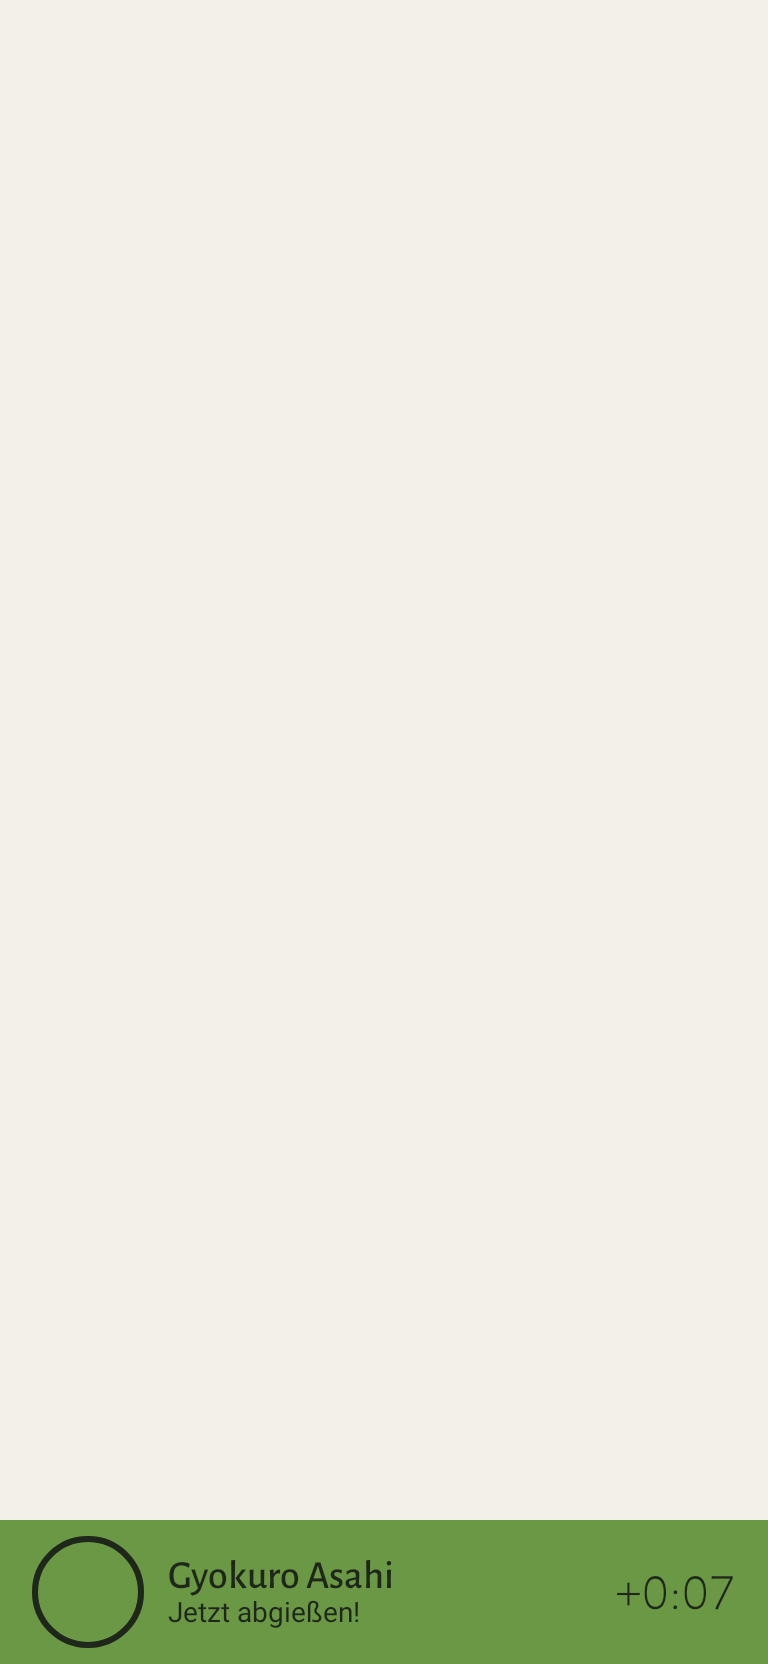
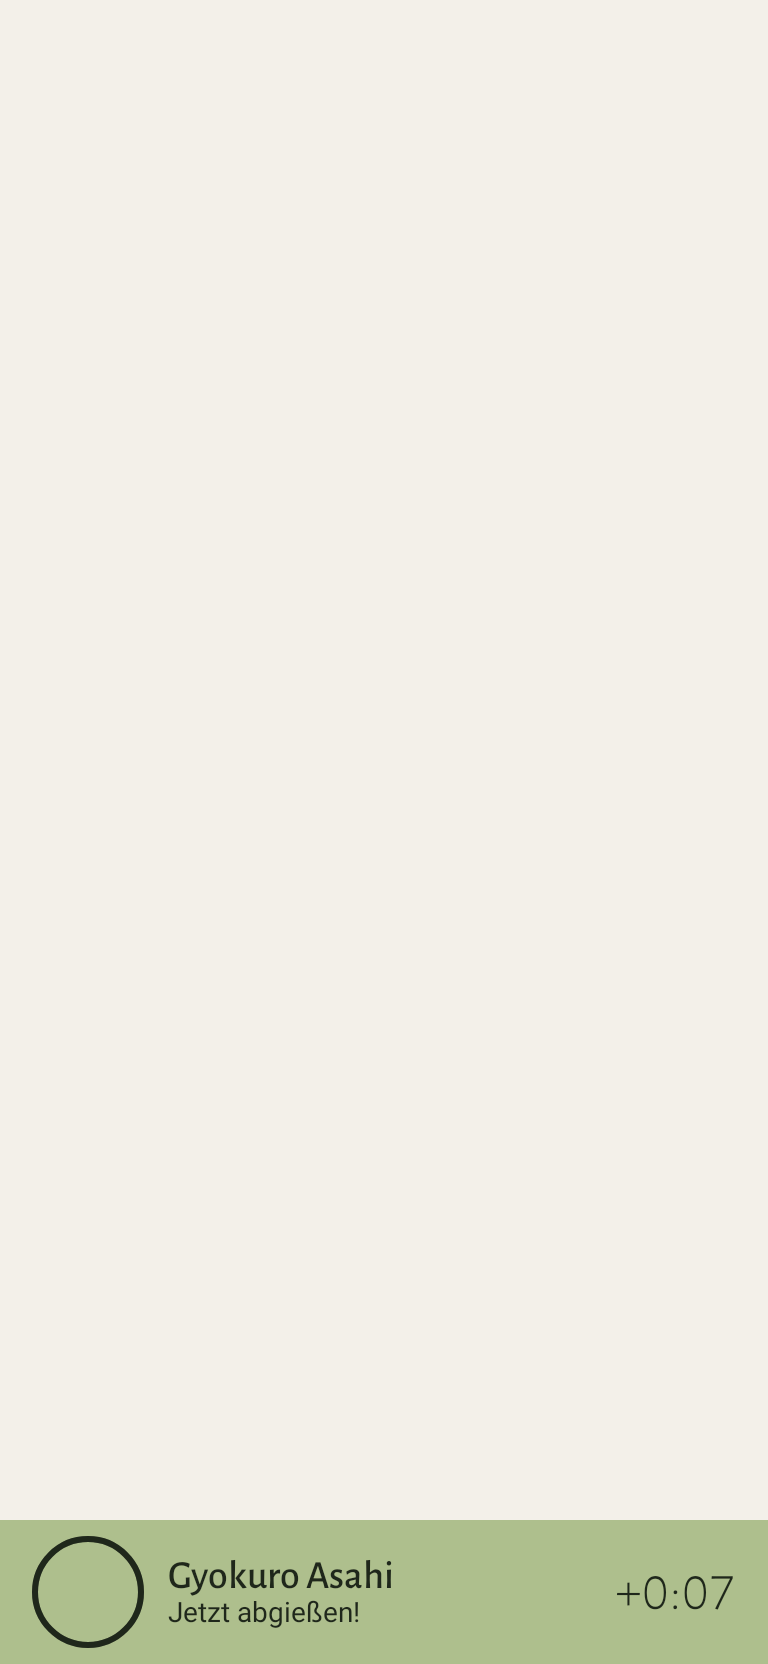
feat(designsystem): the active-brew bar's alert is static sage in the light app (SCR-07, SET-05, #325)
D-128 item 38 (PO): in the light app the bar's ALERTING state, the single bar and an alerting
half, is static sage #AEBF8D with ink content (7.8:1, LightTimerAlertColors); in the dark app
static matcha as before. It still snaps in (alertEnter) and never pulses; keyed on the app's
theme, so a theme change recolours it in one frame. Tests: the contrast of the bar's alert in
both app themes, the alerting bar's colour, no pulse and a theme change. Goldens: six light
ActiveBrewBar goldens in core:designsystem and two light Shell alerting goldens in app; no dark
golden changes. light-app-bar-alert.png re-rendered (now sage).

Claude-Session: https://claude.ai/code/session_01F2Tx8WPJVvUNNPFGBEZtuD

Changed region(s): [[0.0, 0.9062, 1.0, 1.0]]

diff --git a/core/designsystem/src/main/kotlin/com/umamit/core/designsystem/component/ActiveBrewBar.kt b/core/designsystem/src/main/kotlin/com/umamit/core/designsystem/component/ActiveBrewBar.kt
@@ -23,6 +23,7 @@ import androidx.compose.material3.MaterialTheme
 import androidx.compose.material3.Surface
 import androidx.compose.material3.Text
 import androidx.compose.runtime.Composable
+import androidx.compose.runtime.ReadOnlyComposable
 import androidx.compose.runtime.SideEffect
 import androidx.compose.runtime.remember
 import androidx.compose.ui.Alignment
@@ -41,6 +42,8 @@ import androidx.compose.ui.unit.sp
 import com.umamit.core.designsystem.R
 import com.umamit.core.designsystem.text.clockText
 import com.umamit.core.designsystem.text.spokenDuration
+import com.umamit.core.designsystem.theme.AlertColors
+import com.umamit.core.designsystem.theme.LightTimerAlertColors
 import com.umamit.core.designsystem.theme.UmamiSpacing
 import com.umamit.core.designsystem.theme.UmamiTheme
 
@@ -64,8 +67,8 @@ private val RemainingLineHeight = 32.sp
  * it keeps showing the last brew. Under reduce motion it appears at once, and so
  * does a bar that arrives already alerting (rule 8).
  *
- * **ALERTING** ([ActiveBrew.alerting]): the bar turns static matcha on the next
- * frame (`alertEnter`, no transition) with ink content, „Jetzt abgießen!" in
+ * **ALERTING** ([ActiveBrew.alerting]): the bar turns static matcha (in the light app static sage,
+ * [barAlertColors], D-128 item 38) on the next frame (`alertEnter`, no transition) with ink content, „Jetzt abgießen!" in
  * place of the step and the overtime counting up („+0:07"); the mini ring is
  * full, in ink, without liquor. It does not pulse: the full alert is the timer
  * screen, which a tap on the bar opens. Rule 8: nothing in the bar delays or
@@ -143,9 +146,9 @@ private fun ActiveBrewBarContent(
     onClick: () -> Unit,
     windowInsets: WindowInsets,
 ) {
-    val alert = UmamiTheme.extendedColors.alert
-    // Static matcha with ink while alerting (4.55:1); the calm bar otherwise. No colour
-    // animation: entering ALERTING is instant (`alertEnter`).
+    val alert = barAlertColors
+    // Static matcha with ink while alerting (4.55:1), static sage in the light app (7.8:1); the calm bar otherwise.
+    // No colour animation: entering ALERTING is instant (`alertEnter`).
     val background = if (brew.alerting) alert.matcha else MaterialTheme.colorScheme.surfaceContainerHigh
     val content = if (brew.alerting) alert.content else MaterialTheme.colorScheme.onSurface
     val spoken = brew.spokenDescription()
@@ -228,8 +231,9 @@ private fun TwoTimersBarContent(halves: List<BarHalf>, windowInsets: WindowInset
 @Composable
 private fun BarHalfContent(half: BarHalf, modifier: Modifier = Modifier) {
     val brew = half.brew
-    val alert = UmamiTheme.extendedColors.alert
-    // The alerting half alone turns static matcha with ink (`alertEnter`, no transition); a held one stays calm.
+    val alert = barAlertColors
+    // The alerting half alone turns static matcha (sage in the light app) with ink (`alertEnter`, no transition); a
+    // held one stays calm.
     val background = if (brew.alerting) alert.matcha else Color.Transparent
     val content = if (brew.alerting) alert.content else MaterialTheme.colorScheme.onSurface
     val spoken = brew.spokenDescription()
@@ -337,6 +341,15 @@ private fun ActiveBrew.runningDescription(): String {
         stringResource(R.string.ds_active_brew_description_no_step, title, remaining)
     }
 }
+
+/**
+ * The bar's alert colours (03 SCR-07 `ActiveBrewBar`, D-055): static matcha `#6B9845` with ink in the dark app, static
+ * sage `#AEBF8D` with ink in the light app (D-128 item 38, the light timer's strong phase, [LightTimerAlertColors]).
+ * Keyed on the app's theme, so a theme change recolours the bar in one frame; it never pulses.
+ */
+internal val barAlertColors: AlertColors
+    @Composable @ReadOnlyComposable
+    get() = if (UmamiTheme.isDark) UmamiTheme.extendedColors.alert else LightTimerAlertColors
 
 /**
  * The mini ring: the timer ring's drawing at 56 dp, with the same long-step glide

diff --git a/core/designsystem/src/test/kotlin/com/umamit/core/designsystem/component/ActiveBrewBarAlertingTest.kt b/core/designsystem/src/test/kotlin/com/umamit/core/designsystem/component/ActiveBrewBarAlertingTest.kt
@@ -12,6 +12,7 @@ import androidx.compose.ui.test.performClick
 import androidx.compose.ui.unit.dp
 import com.google.common.truth.Truth.assertThat
 import com.umamit.core.designsystem.theme.DefaultExtendedColors
+import com.umamit.core.designsystem.theme.LightTimerAlertColors
 import com.umamit.core.designsystem.theme.UmamiTheme
 import com.umamit.core.designsystem.theme.WashiColorScheme
 import org.junit.Rule
@@ -23,8 +24,8 @@ import org.robolectric.annotation.GraphicsMode
 
 /**
  * The active brew bar while the step alerts (03 §3.8, GEN-06, rule 8): static
- * matcha from the first frame, „Jetzt abgießen!" with the overtime counting up,
- * no pulse in the bar, and a tap still opens the timer.
+ * sage in the light app and static matcha in the dark app (D-128 item 38) from the first frame, „Jetzt abgießen!"
+ * with the overtime counting up, no pulse in the bar, and a tap still opens the timer.
  */
 @RunWith(RobolectricTestRunner::class)
 @GraphicsMode(GraphicsMode.Mode.NATIVE)
@@ -34,7 +35,8 @@ class ActiveBrewBarAlertingTest {
     @get:Rule
     val compose = createAndroidComposeRule<ComponentActivity>()
 
-    private val alert = DefaultExtendedColors.alert
+    /** The light app's bar alert: sage (D-128 item 38). */
+    private val alert = LightTimerAlertColors
 
     private val running = ActiveBrew(
         title = "Bio Sencha Hisui",
@@ -50,11 +52,12 @@ class ActiveBrewBarAlertingTest {
 
     private var brew by mutableStateOf(running)
     private var clicks = 0
+    private var dark by mutableStateOf(false)
 
     private fun show() {
         compose.mainClock.autoAdvance = false
         compose.setContent {
-            UmamiTheme(darkTheme = false, reduceMotion = false) {
+            UmamiTheme(darkTheme = dark, reduceMotion = false) {
                 ActiveBrewBar(brew = brew, progress = { 1f }, onClick = { clicks++ })
             }
         }
@@ -69,7 +72,7 @@ class ActiveBrewBarAlertingTest {
     }
 
     @Test
-    fun `entering ALERTING turns the bar matcha on the next frame`() {
+    fun `entering ALERTING turns the bar sage on the next frame`() {
         show()
         assertThat(barBackground().distanceTo(WashiColorScheme.surfaceContainerHigh)).isLessThan(SAME)
 
@@ -81,7 +84,7 @@ class ActiveBrewBarAlertingTest {
     }
 
     @Test
-    fun `a bar that arrives already alerting is full height and matcha on the next frame (B1, rule 8)`() {
+    fun `a bar that arrives already alerting is full height and sage on the next frame (B1, rule 8)`() {
         var arriving by mutableStateOf<ActiveBrew?>(null)
         compose.mainClock.autoAdvance = false
         compose.setContent {
@@ -106,6 +109,22 @@ class ActiveBrewBarAlertingTest {
         show()
         assertThat(barBackground().distanceTo(alert.matcha)).isLessThan(SAME)
         compose.mainClock.advanceTimeBy(HALF_PULSE_MILLIS)
+        assertThat(barBackground().distanceTo(alert.matcha)).isLessThan(SAME)
+    }
+
+    @Test
+    fun `in the dark app the alerting bar is static matcha, and a theme change recolours it in one frame`() {
+        dark = true
+        brew = alerting
+        show()
+        val matcha = DefaultExtendedColors.alert.matcha
+        assertThat(barBackground().distanceTo(matcha)).isLessThan(SAME)
+        compose.mainClock.advanceTimeBy(HALF_PULSE_MILLIS)
+        assertThat(barBackground().distanceTo(matcha)).isLessThan(SAME)
+
+        dark = false
+        compose.waitForIdle()
+        compose.mainClock.advanceTimeByFrame()
         assertThat(barBackground().distanceTo(alert.matcha)).isLessThan(SAME)
     }
 

diff --git a/core/designsystem/src/test/kotlin/com/umamit/core/designsystem/theme/TokenContrastTest.kt b/core/designsystem/src/test/kotlin/com/umamit/core/designsystem/theme/TokenContrastTest.kt
@@ -185,11 +185,27 @@ class TokenContrastTest {
         assertWithMessage("ink on sage (03 §3.1)").that(contrast(alert.content, alert.matcha)).isWithin(0.05).of(7.8)
     }
 
+    /**
+     * The active-brew bar's static alert (SCR-07, D-128 item 38): sage with ink in the light app, matcha with ink in
+     * the dark app. Its text („Jetzt abgießen!", the overtime) is ink on that surface, ≥ 4.5:1 in both.
+     */
+    @Test
+    fun `the active-brew bar's alert is readable in both app themes`() {
+        mapOf("light app, sage" to LightTimerAlertColors, "dark app, matcha" to DefaultExtendedColors.alert)
+            .forEach { (app, alert) ->
+                assertWithMessage("ink on the bar, $app").that(contrast(alert.content, alert.matcha))
+                    .isAtLeast(TEXT_CONTRAST)
+            }
+        val sage = LightTimerAlertColors
+        assertWithMessage("ink on the light app's sage bar").that(contrast(sage.content, sage.matcha))
+            .isWithin(0.05).of(7.8)
+    }
+
     @Test
     fun `the light timer's pulse swings 1,73 to 1, the dark timer's stays washi to matcha`() {
         assertWithMessage("washi ↔ sage").that(contrast(LightTimerAlertColors.washi, LightTimerAlertColors.matcha))
             .isWithin(RATIO_TOLERANCE).of(1.73)
-        assertWithMessage("the dark timer and the app keep matcha").that(DefaultExtendedColors.alert.matcha)
+        assertWithMessage("the dark timer and the dark app's bar keep matcha").that(DefaultExtendedColors.alert.matcha)
             .isEqualTo(Color(0xFF6B9845))
     }
 }

diff --git a/core/designsystem/src/main/kotlin/com/umamit/core/designsystem/theme/ExtendedColors.kt b/core/designsystem/src/main/kotlin/com/umamit/core/designsystem/theme/ExtendedColors.kt
@@ -105,8 +105,9 @@ val DefaultExtendedColors = UmamiExtendedColors(
 /**
  * The light timer's alert (03 §3.1 „Timer in the light theme", D-128 item 36): washi ↔ sage `#AEBF8D` with the
  * same ink content, pill and circles. Ink on sage is 7.8:1; the swing washi ↔ sage is 1.73:1, a softer pulse than
- * the dark timer's, accepted by the PO. Only [TimerTheme] in the light theme provides it; the dark timer and every
- * surface outside the timer (the active-brew bar) keep [DefaultExtendedColors]' matcha (D-046).
+ * the dark timer's, accepted by the PO. Only [TimerTheme] in the light theme provides it; the dark timer keeps
+ * [DefaultExtendedColors]' matcha (D-046). Outside the timer, the active-brew bar's static alert takes its sage in the
+ * light app and matcha in the dark one (D-128 item 38).
  */
 val LightTimerAlertColors = DefaultExtendedColors.alert.copy(matcha = Color(0xFFAEBF8D))
 

diff --git a/feature/brew/src/test/kotlin/com/umamit/feature/brew/timer/LightTimerDesignCheckTest.kt b/feature/brew/src/test/kotlin/com/umamit/feature/brew/timer/LightTimerDesignCheckTest.kt
@@ -164,8 +164,8 @@ class LightTimerDesignCheckTest(private val dark: Boolean) {
     }
 
     /**
-     * The active-brew bar's alert state in the light app, outside the timer: its colours are unchanged (static matcha
-     * with ink, `ActiveBrewBar`), shown beside the sage alarm for the PO (#325).
+     * The active-brew bar's alert state in the light app, outside the timer: static sage with ink (`ActiveBrewBar`,
+     * D-128 item 38), beside the sage alarm for the design review (#325).
      */
     @Test
     fun appBarAlert() {
